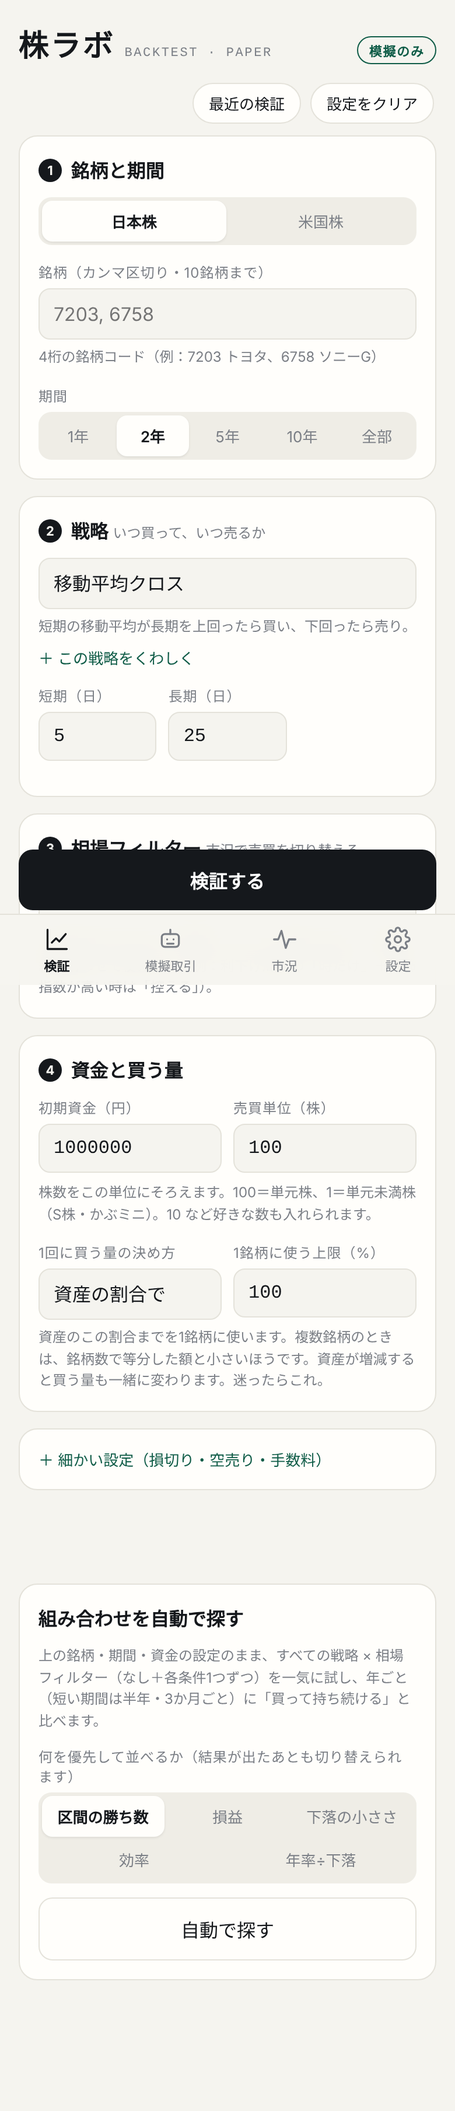
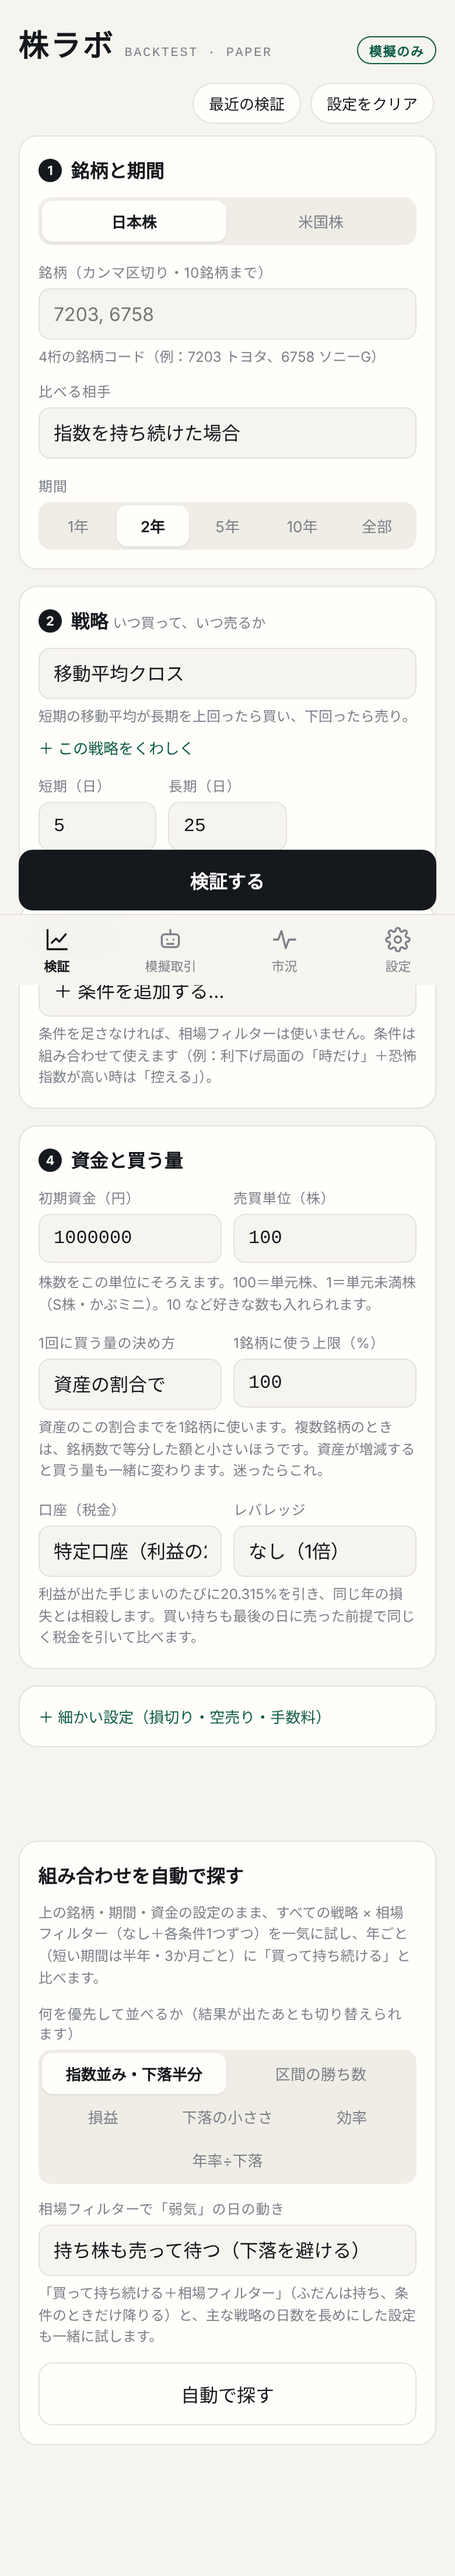
自動探索の上位5件の数値を詰める機能を追加
前半7割の成績だけで一番良い数値を選び、残り3割で本当に良くなるかを確かめる。試した数値のうち後半で指数より良かった割合も出す。資産の乗り換えの数値の候補も追加

Claude-Session: https://claude.ai/code/session_01Bw63P3ajQHSJYz6Kmyqw6Q

diff --git a/app.js b/app.js
@@ -1,6 +1,6 @@
 import { createClient } from "https://cdn.jsdelivr.net/npm/@supabase/supabase-js@2/+esm";
 import { STRATEGIES, STRATEGY_GROUPS, normalizeCfg, regimeMap, precomputeSignals } from "./engine.js";
-import { GRIDS, backtest, sweep, segmentize, segReturns } from "./research.js";
+import { GRIDS, backtest, sweep, segmentize, segReturns, combos, validParams, partMetrics } from "./research.js";
 
 const CFG = window.ST_CONFIG;
 const sb = createClient(CFG.url, CFG.key, { auth: { persistSession: true, autoRefreshToken: true } });
@@ -424,7 +424,7 @@ async function addBench(m, data, from) {
 }
 
 /* ---------- 自動探索の結果（優先する見方で並べかえる） ---------- */
-let exState = null;
+let exState = null, exAll = [];
 // 自動探索で、初期値に加えて試す「長め」の設定
 const EX_VARIANTS = {
   sma: [{ short: 50, long: 200 }], ema: [{ short: 50, long: 200 }], tma: [{ short: 20, mid: 50, long: 200 }],
@@ -475,7 +475,8 @@ function renderEx() {
     const id = `${x.r.st}|${JSON.stringify(x.r.params)}|${x.r.M.totalPct.toFixed(3)}|${x.r.M.maxDDPct.toFixed(3)}|${x.r.M.trades}`;
     if (seen.has(id)) seen.get(id).same.push(x.r.c); else seen.set(id, { ...x.r, pass: x.p, same: [] });
   }
-  exRows = [...seen.values()].slice(0, 15);
+  exAll = [...seen.values()];
+  exRows = exAll.slice(0, 15);
   const nPass = sorted.filter(x => x.p).length;
   const metric = M => ({ half: `年率 ${M.cagrPct >= 0 ? "+" : ""}${M.cagrPct.toFixed(1)}%`, balance: null, ret: `年率 ${M.cagrPct >= 0 ? "+" : ""}${M.cagrPct.toFixed(1)}%`, dd: `下落 -${M.maxDDPct.toFixed(0)}%`, sharpe: `効率 ${M.sharpe.toFixed(2)}`, calmar: `${calmar(M).toFixed(2)}` })[prio];
   const unitName = { year: "1年", half: "半年", quarter: "3か月" }[unit];
@@ -500,13 +501,100 @@ function renderEx() {
     <div class="segrow head"><div class="t"><span class="mu">区間</span></div><div class="segs lab" style="grid-template-columns:repeat(${K},1fr)">${segs.map(g => `<span>${esc(g.label)}</span>`).join("")}</div></div>
     <div class="segrow base"><div class="t"><span>${esc(bname)}を持ち続けた場合</span><span class="num">${prio === "balance" ? "" : `<b>${metric(benchM)}</b>`}<span class="${cls(benchM.totalPct)}">${pct(benchM.totalPct)}</span><small>-${benchM.maxDDPct.toFixed(0)}%</small></span></div>${strip(benchSeg, null)}</div>
     ${exRows.map((r, i) => `<div class="segrow r" data-i="${i}"><div class="t"><span>${r.pass ? `<span class="star">★</span>` : ""}${esc(stName(r))}<small>${esc(ruleText(r.c, r.act))}${r.same.length ? `<br>（同じ結果：${esc(r.same.slice(0, 3).map(c => ruleText(c, r.act)).join("、"))}${r.same.length > 3 ? ` ほか${r.same.length - 3}件` : ""}）` : ""}</small></span><span class="num">${right(r.M, r.wins)}</span></div>${strip(r.seg, r.ex)}</div>`).join("")}
-    <p class="hint">マスの数字は、その区間の損益（%）。<span style="background:rgba(52,140,90,.35);padding:0 4px;border-radius:3px">緑</span>は買い持ちに勝った区間、<span style="background:rgba(200,70,60,.3);padding:0 4px;border-radius:3px">赤</span>は負けた区間で、色が濃いほど差が大きい（差が0.5ポイント以内なら色なし＝引き分け）。右上は${prio === "balance" ? "勝った区間の数" : "優先した指標"}と、全期間の損益・最大下落。★は${passText}もの。行をタップすると、その組み合わせで検証します。数値は各戦略の初期値で試しています。${skipped.length ? `<br>データが取れず試せなかった条件：${esc(skipped.join("、"))}` : ""}</p>`;
+    <p class="hint">マスの数字は、その区間の損益（%）。<span style="background:rgba(52,140,90,.35);padding:0 4px;border-radius:3px">緑</span>は買い持ちに勝った区間、<span style="background:rgba(200,70,60,.3);padding:0 4px;border-radius:3px">赤</span>は負けた区間で、色が濃いほど差が大きい（差が0.5ポイント以内なら色なし＝引き分け）。右上は${prio === "balance" ? "勝った区間の数" : "優先した指標"}と、全期間の損益・最大下落。★は${passText}もの。行をタップすると、その組み合わせで検証します。数値は各戦略の初期値で試しています。${skipped.length ? `<br>データが取れず試せなかった条件：${esc(skipped.join("、"))}` : ""}</p>
+    <button class="btn ghost" id="exTune">上位5件の数値を詰める</button>
+    <p class="hint" style="margin-top:6px">上の並びで上から5件（数値のない「買って持ち続ける」は飛ばします）について、戦略の数値（日数や基準）を組み合わせて試します。期間の前半7割で一番良い数値を選び、残り3割で本当に良くなるかを確かめます。</p>
+    <div id="exTuneOut"></div>`;
+  if ($("exTune")) $("exTune").onclick = runTune;
   out.querySelectorAll(".segrow.r").forEach(tr => tr.onclick = () => {
     const r = exRows[Number(tr.dataset.i)];
     $("btStrategy").value = r.st; renderParams();
     for (const [k, v] of Object.entries(r.params || {})) { const el = $("bp_" + k); if (el) el.value = v; }
     rgRows = r.c ? [{ ...r.c.row }] : []; renderRg();
     if (r.c) $("btRgAct").value = r.act;
+    $("btRun").click();
+  });
+}
+
+/* ---------- 上位の組み合わせの数値を詰める ---------- */
+// 並べ方ごとの「良さ」。大きいほど良い（2つめは同点のときの比べ方）
+function prioScore(prio, M, B) {
+  const ddR = M.maxDDPct > 0 ? B.maxDDPct * 0.5 / M.maxDDPct : 9, cR = B.cagrPct > 0 ? M.cagrPct / (B.cagrPct * 0.9) : (M.cagrPct >= B.cagrPct ? 1 : 0);
+  if (prio === "half") return [Math.min(cR, ddR, 1.0001), M.cagrPct];
+  if (prio === "ret") return [M.totalPct, 0];
+  if (prio === "dd") return [M.cagrPct >= B.cagrPct * 0.7 ? 1 : 0, -M.maxDDPct];
+  if (prio === "calmar") return [calmar(M), 0];
+  return [M.sharpe, 0];
+}
+// その並べ方で「指数より良い」と言えるか
+function prioBeats(prio, M, B) {
+  if (prio === "half") return M.cagrPct >= B.cagrPct * 0.9 && M.maxDDPct <= B.maxDDPct * 0.5;
+  if (prio === "ret") return M.totalPct > B.totalPct;
+  if (prio === "dd") return M.cagrPct >= B.cagrPct * 0.7 && M.maxDDPct < B.maxDDPct * 0.7;
+  if (prio === "calmar") return calmar(M) > calmar(B);
+  return M.sharpe > B.sharpe;
+}
+const better = (a, b) => (a[0] - b[0]) || (a[1] - b[1]);
+async function runTune() {
+  const S = exState, out = $("exTuneOut");
+  if (!S) return;
+  const prio = $("exPrio").querySelector(".on")?.dataset.v || "half";
+  // 上から順に、数値を変えられる組み合わせを5つ（買い持ち＋フィルターは数値がないので飛ばす）
+  const cands = exAll.filter(r => r.st !== "hold" && GRIDS[r.st] && Object.keys(GRIDS[r.st]).length).slice(0, 5);
+  if (!cands.length) { out.innerHTML = `<div class="empty">数値を変えられる組み合わせがありません（買って持ち続けるには数値がありません）</div>`; return; }
+  const { dates, data, maps, cfg0, start, m, benchEq } = S;
+  const split = dates[Math.floor(dates.length * 0.7)], last = dates[dates.length - 1];
+  const nx = new Date(split + "T00:00:00Z"); nx.setUTCDate(nx.getUTCDate() + 1);
+  const next = nx.toISOString().slice(0, 10);
+  const bA = partMetrics(benchEq, [], dates[0], split), bB = partMetrics(benchEq, [], next, last);
+  const tick = () => new Promise(r => setTimeout(r, 0));
+  busy($("exTune"), true, "数値を詰めています…");
+  const results = [];
+  try {
+    for (const [ci, r] of cands.entries()) {
+      busy($("exTune"), true, `数値を詰めています… ${ci + 1}/${cands.length}`);
+      await tick();
+      const regime = r.c ? { mode: "auto", action: r.act, filters: [r.c.f] } : { mode: "off" };
+      const run = params => {
+        const cfg = { ...cfg0, strategy: r.st, params, fearSym: STRATEGIES[r.st].needsVol ? (m === "JP" ? "NKVI" : "VIX") : "", fearLag: false, regime };
+        const res = backtest(cfg, data, { from: start, sig: precomputeSignals(cfg, data), bearMap: r.c ? maps.get(r.c) : undefined, noBench: true });
+        if (!res.metrics) return null;
+        const A = partMetrics(res.equity, res.trades, dates[0], split), B = partMetrics(res.equity, res.trades, next, last);
+        return A && B ? { params: normalizeCfg(cfg).params, A, B, M: res.metrics } : null;
+      };
+      const base = run(r.params);
+      const tried = [];
+      for (const p of combos(GRIDS[r.st])) {
+        const full = { ...r.params, ...p };
+        if (!validParams(r.st, full)) continue;
+        const x = run(full);
+        if (x && x.A.trades > 0) tried.push(x);
+      }
+      if (!base || !tried.length) continue;
+      // 前半だけで一番良い数値を選ぶ（後半の結果は選ぶときに見ない）
+      const best = tried.reduce((a, b) => better(prioScore(prio, b.A, bA), prioScore(prio, a.A, bA)) > 0 ? b : a);
+      const okShare = tried.filter(x => prioBeats(prio, x.B, bB)).length / tried.length * 100;
+      results.push({ r, base, best, n: tried.length, okShare, improved: better(prioScore(prio, best.B, bB), prioScore(prio, base.B, bB)) > 0 });
+    }
+  } catch (e) { out.innerHTML = `<div class="err">${esc(e.message)}</div>`; busy($("exTune"), false); return; }
+  busy($("exTune"), false);
+  const cell = M => `<span class="${cls(M.cagrPct)}">${M.cagrPct >= 0 ? "+" : ""}${M.cagrPct.toFixed(1)}%</span><br><span class="mu" style="font-size:11px">-${M.maxDDPct.toFixed(0)}%</span>`;
+  const ruleText = (c, act) => !c ? "フィルターなし" : (/[るいた]$/.test(c.P.label) ? c.P.label + "とき" : c.P.label + "のとき") + (c.f.role === "only" ? "だけ持つ" : "は降りる") + (act === "nobuy" ? "（新規だけ止める）" : "");
+  out.innerHTML = `<div class="swsum">前半（調整に使う）<span class="num">${fmtD(dates[0])}〜${fmtD(split)}</span>／後半（確かめ）<span class="num">${fmtD(next)}〜${fmtD(last)}</span>。並べ方「${EX_PRIO[prio].label}」の基準で、前半の成績だけを見て数値を選びました。</div>` +
+    results.map((x, i) => `<div class="tune">
+      <div class="t"><b>${esc(STRATEGIES[x.r.st].label)}</b><small>${esc(ruleText(x.r.c, x.r.act))}</small></div>
+      <table class="t sw"><tr><th></th><th>前半 年率<br>下落</th><th>後半 年率<br>下落</th></tr>
+      <tr><td class="p">探索で使った数値<br><span class="mu" style="font-size:11px">${esc(shortParams(x.r.st, x.base.params))}</span></td><td>${cell(x.base.A)}</td><td>${cell(x.base.B)}</td></tr>
+      <tr><td class="p"><b>詰めた数値</b><br><span class="mu" style="font-size:11px">${esc(shortParams(x.r.st, x.best.params))}</span></td><td>${cell(x.best.A)}</td><td>${cell(x.best.B)}</td></tr>
+      <tr><td class="p mu">${esc(S.bname)}</td><td>${cell(bA)}</td><td>${cell(bB)}</td></tr></table>
+      <p class="verdict ${x.improved ? "up" : "dn"}">${x.improved ? "後半でも、探索で使った数値より良くなりました。数値を変える意味がありそうです。" : "後半では、探索で使った数値以下でした。前半に合わせすぎた可能性が高く、元の数値のままが無難です。"}<br><span class="mu">試した${x.n}通りのうち、後半で${esc(S.bname)}より良かった（${esc(EX_PRIO[prio].label)}の基準）のは ${x.okShare.toFixed(0)}%。${x.okShare >= 50 ? "数値を多少変えても崩れにくい組み合わせです。" : x.okShare >= 20 ? "数値によって当たり外れがあります。" : "ほとんどの数値で負けています。たまたま良かっただけかもしれません。"}</span></p>
+      <button class="btn ghost sm" data-tune="${i}">詰めた数値で検証する</button></div>`).join("");
+  out.querySelectorAll("[data-tune]").forEach(b => b.onclick = () => {
+    const x = results[Number(b.dataset.tune)];
+    $("btStrategy").value = x.r.st; renderParams();
+    for (const [k, v] of Object.entries(x.best.params)) { const el = $("bp_" + k); if (el) el.value = v; }
+    rgRows = x.r.c ? [{ ...x.r.c.row }] : []; renderRg();
+    if (x.r.c) $("btRgAct").value = x.r.act;
     $("btRun").click();
   });
 }
@@ -581,7 +669,7 @@ $("exRun").onclick = async () => {
         }
       }
     }
-    exState = { rows, segs, benchSeg, benchM, K, need, unit, skipped, dates, bname: benchName(m) };
+    exState = { rows, segs, benchSeg, benchM, K, need, unit, skipped, dates, bname: benchName(m), data, maps, cfg0, start, m, benchEq: benchRun.bench.equity };
     renderEx();
   } catch (e) { out.innerHTML = `<div class="err">${esc(e.message)}</div>`; }
   finally { busy($("exRun"), false); }

diff --git a/research.js b/research.js
@@ -57,6 +57,16 @@ export function metrics(equity, trades, initial) {
   };
 }
 
+// 資産の推移の一部分（from〜to）だけで成績を出す。始まりは from の前日の資産
+export function partMetrics(equity, trades, from, to) {
+  const i0 = equity.findIndex(e => e.d >= from);
+  if (i0 < 0) return null;
+  let i1 = equity.length - 1; while (i1 >= i0 && equity[i1].d > to) i1--;
+  if (i1 <= i0) return null;
+  const base = i0 > 0 ? equity[i0 - 1].equity : equity[i0].equity;
+  return metrics(equity.slice(i0, i1 + 1), trades.filter(t => t.d >= from && t.d <= to), base);
+}
+
 /* ---------- 期間を区切る ---------- */
 // 日付の並びを、年ごと（4年以上）・半年ごと（1.5年以上）・四半期ごとに区切る。短すぎる端の区間は隣とまとめる
 export function segmentize(dates) {
@@ -123,14 +133,15 @@ export const GRIDS = {
   fibo: { look: [40, 60, 120], swing: [8, 15], level: [0, 1, 2], target: [0, 1, 2] },
   candle: { pat: [0, 1, 2, 4, 5, 6, 7, 8], hold: [3, 5, 10, 20] },
   chartpat: { pat: [1, 2, 3, 4], width: [3, 5, 8], tol: [2, 3, 5] },
+  rotation: { period: [63, 126, 189, 252], top: [1, 2, 3], th: [0, 2], rebal: [0, 1] },
   hold: {},
 };
-function combos(grid) {
+export function combos(grid) {
   let out = [{}];
   for (const [k, vs] of Object.entries(grid)) out = out.flatMap(o => vs.map(v => ({ ...o, [k]: v })));
   return out;
 }
-function validParams(strategy, p) {
+export function validParams(strategy, p) {
   if (strategy === "sma") return p.short < p.long;
   if (strategy === "rsi") return p.buy < p.sell;
   if (strategy === "macd") return p.fast < p.slow;

diff --git a/index.html b/index.html
@@ -117,6 +117,14 @@ a.ext b{display:block;font-size:15px;color:var(--acc)} a.ext span{font-size:12px
 .lv.calm{background:#e3f1ea;color:var(--up)} .lv.warn{background:#fbf1dc;color:var(--warn)} .lv.hot{background:#fbe9e6;color:var(--dn)}
 .seg.wrap{flex-wrap:wrap;height:auto}
 .seg.wrap button{flex:1 1 30%}
+.tune{border-top:1px solid var(--line);padding:12px 0}
+.tune .t{font-size:14px;line-height:1.4;margin-bottom:6px}
+.tune .t small{display:block;color:var(--mu);font-size:11px}
+.tune table.t{margin:0}
+.verdict{font-size:13px;line-height:1.6;margin:8px 0}
+.verdict.up{color:var(--up,#2e7d4f)} .verdict.dn{color:var(--dn,#b4473c)}
+.verdict .mu{font-size:12px}
+.btn.sm{padding:9px 12px;font-size:13px}
 .segrow{padding:10px 0;border-top:1px solid var(--line)}
 .segrow.head{border-top:0;padding-bottom:4px}
 .segrow.r{cursor:pointer} .segrow.r:active{background:var(--soft)}

diff --git a/sw.js b/sw.js
@@ -1,4 +1,4 @@
-const CACHE = "st-v16";
+const CACHE = "st-v17";
 const SHELL = ["./", "index.html", "app.js", "engine.js", "research.js", "config.js", "manifest.webmanifest", "icons/icon-192.png", "icons/apple-touch-icon.png"];
 self.addEventListener("install", e => { e.waitUntil(caches.open(CACHE).then(c => c.addAll(SHELL)).then(() => self.skipWaiting())); });
 self.addEventListener("activate", e => {
